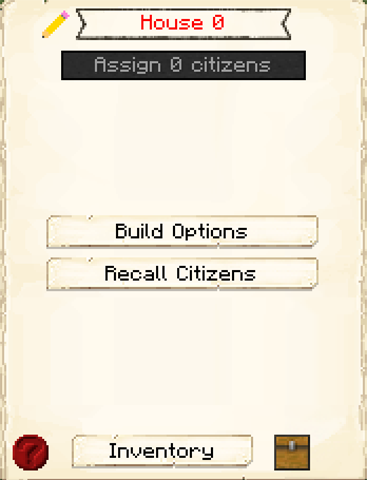
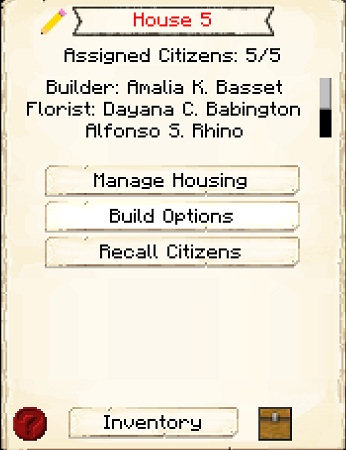
Housing hut changes (#787)
* Housing hut changes

* Corrections made

diff --git a/pages/src/_includes/infobox/building.html b/pages/src/_includes/infobox/building.html
@@ -1,7 +1,9 @@
 {% assign recipes = include.recipes | strip | default "" %}
 {% assign recipes_list = recipes | split: "," %}
+{% assign worker = include.worker | strip | default "" %}
 
 {% capture infobox-content %}
+ {% if worker != "" %}
     <div class="row section-text text-left">
         <div class="col">
             <p>
@@ -14,6 +16,7 @@
             </p>
         </div>
     </div>
+ {% endif %}
 {% endcapture %}
 {% capture infobox-content-lower %}
     {% if recipes != "" %}
@@ -26,4 +29,4 @@
         {% endfor %}
     {% endif %}
 {% endcapture %}
-{% include infobox/reuse/core.html content=infobox-content lower_content=infobox-content-lower image=include.image alt="Apiary" %}
+{% include infobox/reuse/core.html content=infobox-content lower_content=infobox-content-lower image=include.image alt=include.alt %}

diff --git a/pages/src/_includes/contentblock/main-gui.html b/pages/src/_includes/contentblock/main-gui.html
@@ -1,7 +1,8 @@
 {% capture content %}
     {% include contentblock/reuse/header.html header=include.header %}
+    {% assign data = include.data | default: site.data.gui.global %}
     <ul>
-        {% for item in site.data.gui.global %}
+        {% for item in data %}
             <li>
                 <strong>{{ item.button }}:</strong>
                 {{ item.content }}</li>

diff --git a/pages/src/_includes/infobox/reuse/core.html b/pages/src/_includes/infobox/reuse/core.html
@@ -8,10 +8,12 @@
             {{ include.upper_content }}
         </div>
     {% endif %}
+    {% if worker != "" %}
     <hr/>
     <div class="infobox-content infobox-content-main">
         {{ include.content }}
     </div>
+    {% endif %}
     {% if include.lower_content %}
         <hr/>
         <div class="infobox-content infobox-content-lower">

diff --git a/pages/src/source/buildings/house.md b/pages/src/source/buildings/house.md
@@ -4,15 +4,10 @@ layout: default
 ---
 # House
 
-<div class="infobox box text-center">
-    <img src="../../assets/images/buildings/house.png" alt="House" />
-    <recipe>house</recipe>
-</div>
-
+{% capture content %}
 Citizens will go to the House they are assigned to at night to sleep. The House is also a way to get more citizens for your colony.
 
 Each level of the House will house one citizen. So: 
-
 
 | Building Level | Citizens Housed |
 | ----- | ----- |
@@ -22,30 +17,22 @@ Each level of the House will house one citizen. So:
 | 4 | 4 |
 | 5 | 5 |
 
-<br>
-
 For additional citizens to spawn, you first have to have enough space in your House(s) to house your first four citizens. After you have created enough space for your initial four citizens, you have two options for your colony to grow. The first way is to have at least one House at least level 2 that houses two unrelated citizens, which will allow a child to be born in the colony when there is room. You can also make space for a new citizen, go to the [Tavern](../../source/buildings/tavern), wait for a traveler to show up, and then give them the items they request to recruit them.
 
 ### Note: To have over 25 citizens, you must first complete the research in the [University](../../source/buildings/university).
-<br>
+{% endcapture %}
+{% capture infobox %}
+{% include infobox/building.html recipes="house" image="../../assets/images/buildings/house.png" alt="House" %}
+{% endcapture %}
+{% include page-infobox-wrapper.html content=content infobox=infobox %}
 
 ## House GUI
 
-When accessing the House's hut block by right-clicking on it, you will see a GUI with different options:
-
-<br>
 <div class="row">
-  <div class="col-sm-12 col-md">
-    <img src="../../assets/images/gui/housegui.png" class="img-fluid mx-auto" alt="House GUI">
+  <div class="col">
+    {% include contentblock/main-gui.html data=site.data.gui.citizen header="When accessing the House's hut block by right-clicking on it, you will see a GUI with different options. You start on
+    the main tab:" image="../../assets/images/gui/housegui.png" %}
+
+    {% include contentblock/basic.html header="You reach this screen by clicking <strong>Manage Housing</strong> on the main tab." content="If the house is filled, you will need to <strong>Unassign</strong> a citizen before being able to add new citizens.  Each citizen will be listed, starting with the residents of this house.  Citizens will show their occupation, the distance from their work hut to <strong>this</strong> house, and the distance from their work hut to their current house.  If the second line is green, this house is closer to their work hut.  If it's yellow, it's farther.  <br><br><strong>Building Assignment Mode</strong> allows you to override the Townhall's housing setting, for this house only." image="../../assets/images/gui/housegui2.png" %}
   </div>
-  <div class="col-sm-12 col-md">
-    <br>
-    <ul>
-      {% for item in site.data.gui.citizen %}
-        <li><strong>{{ item.button }}:</strong> {{ item.content }}</li>
-      {% endfor %}
-    </ul>
-  </div>
-</div>  
-  <br>
-  
+</div>
